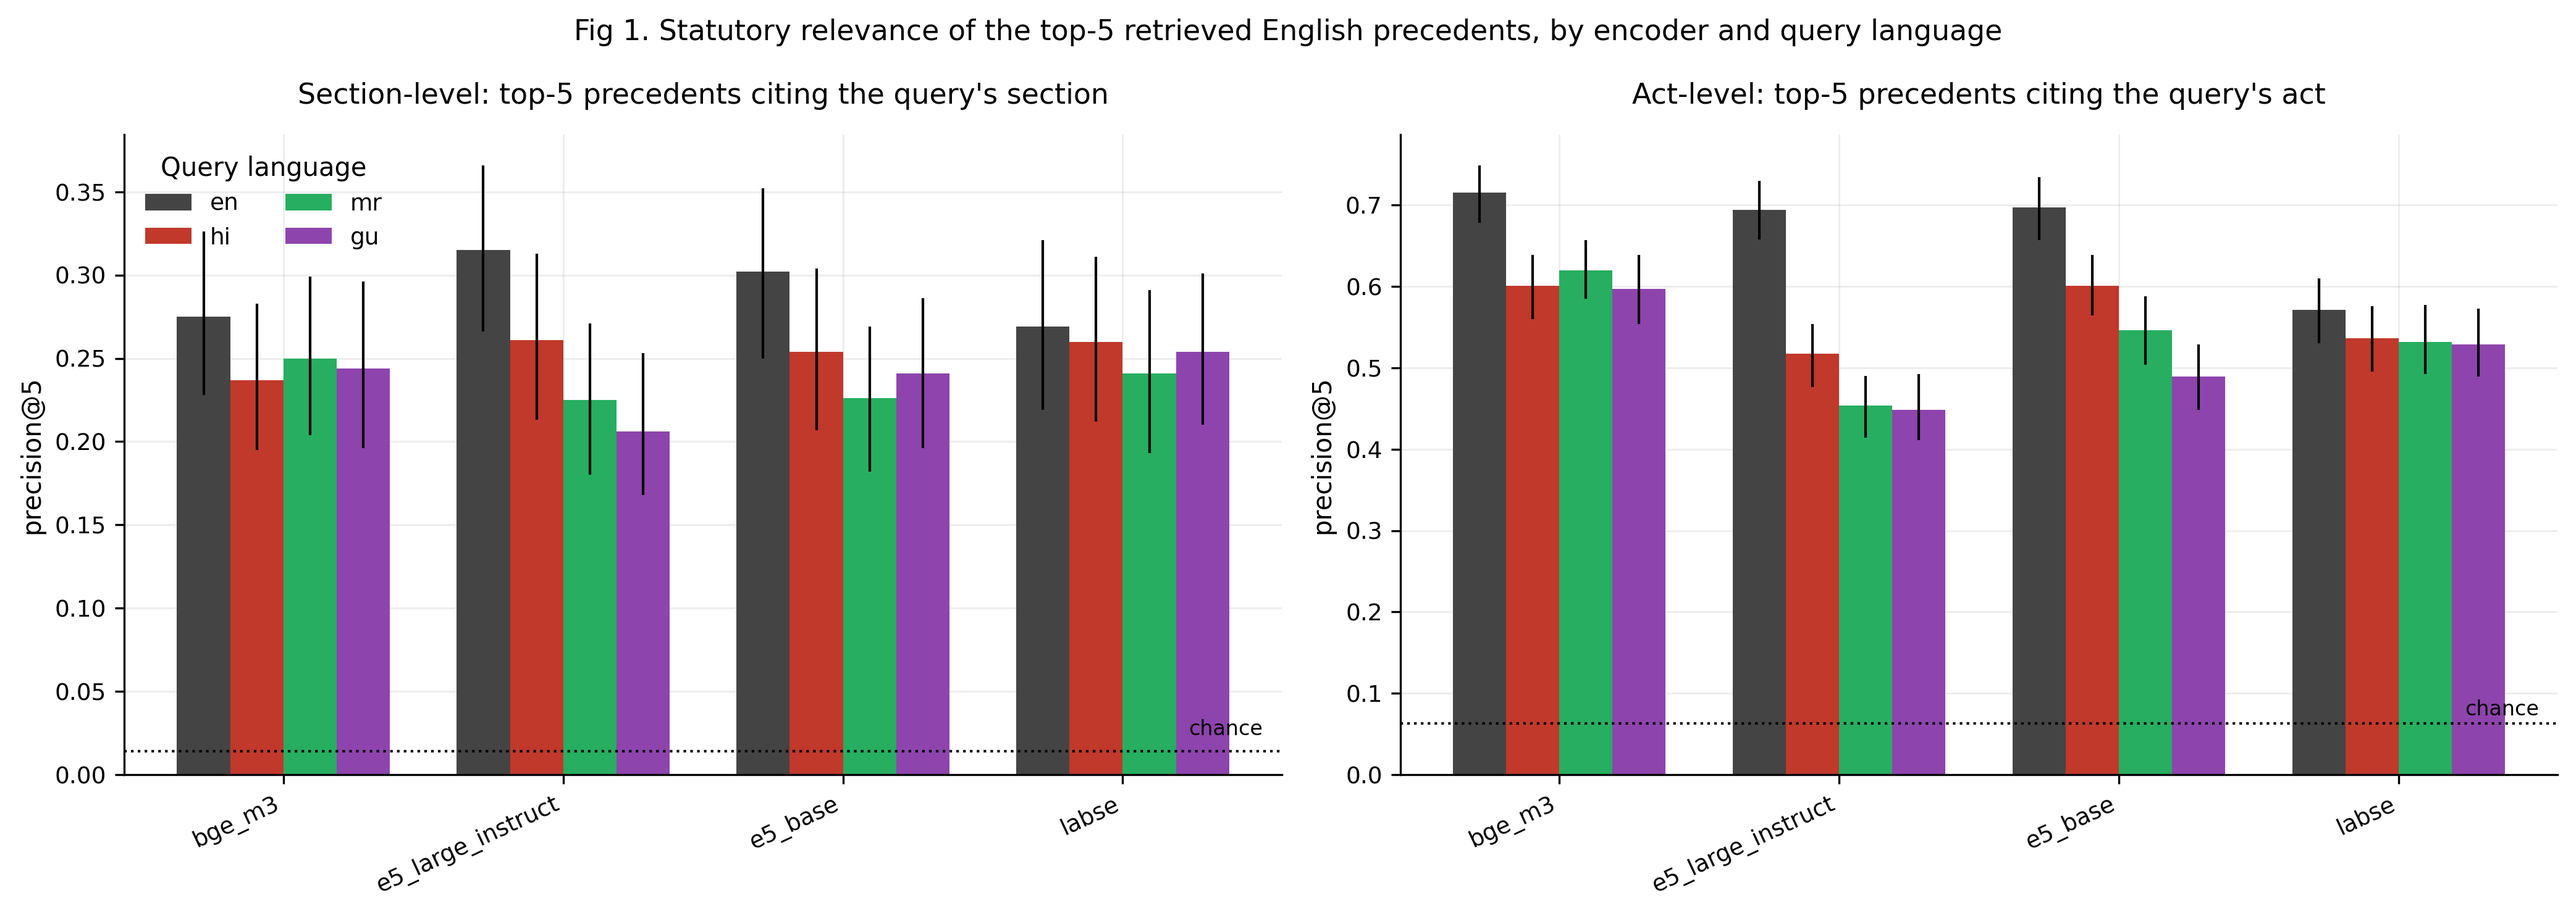
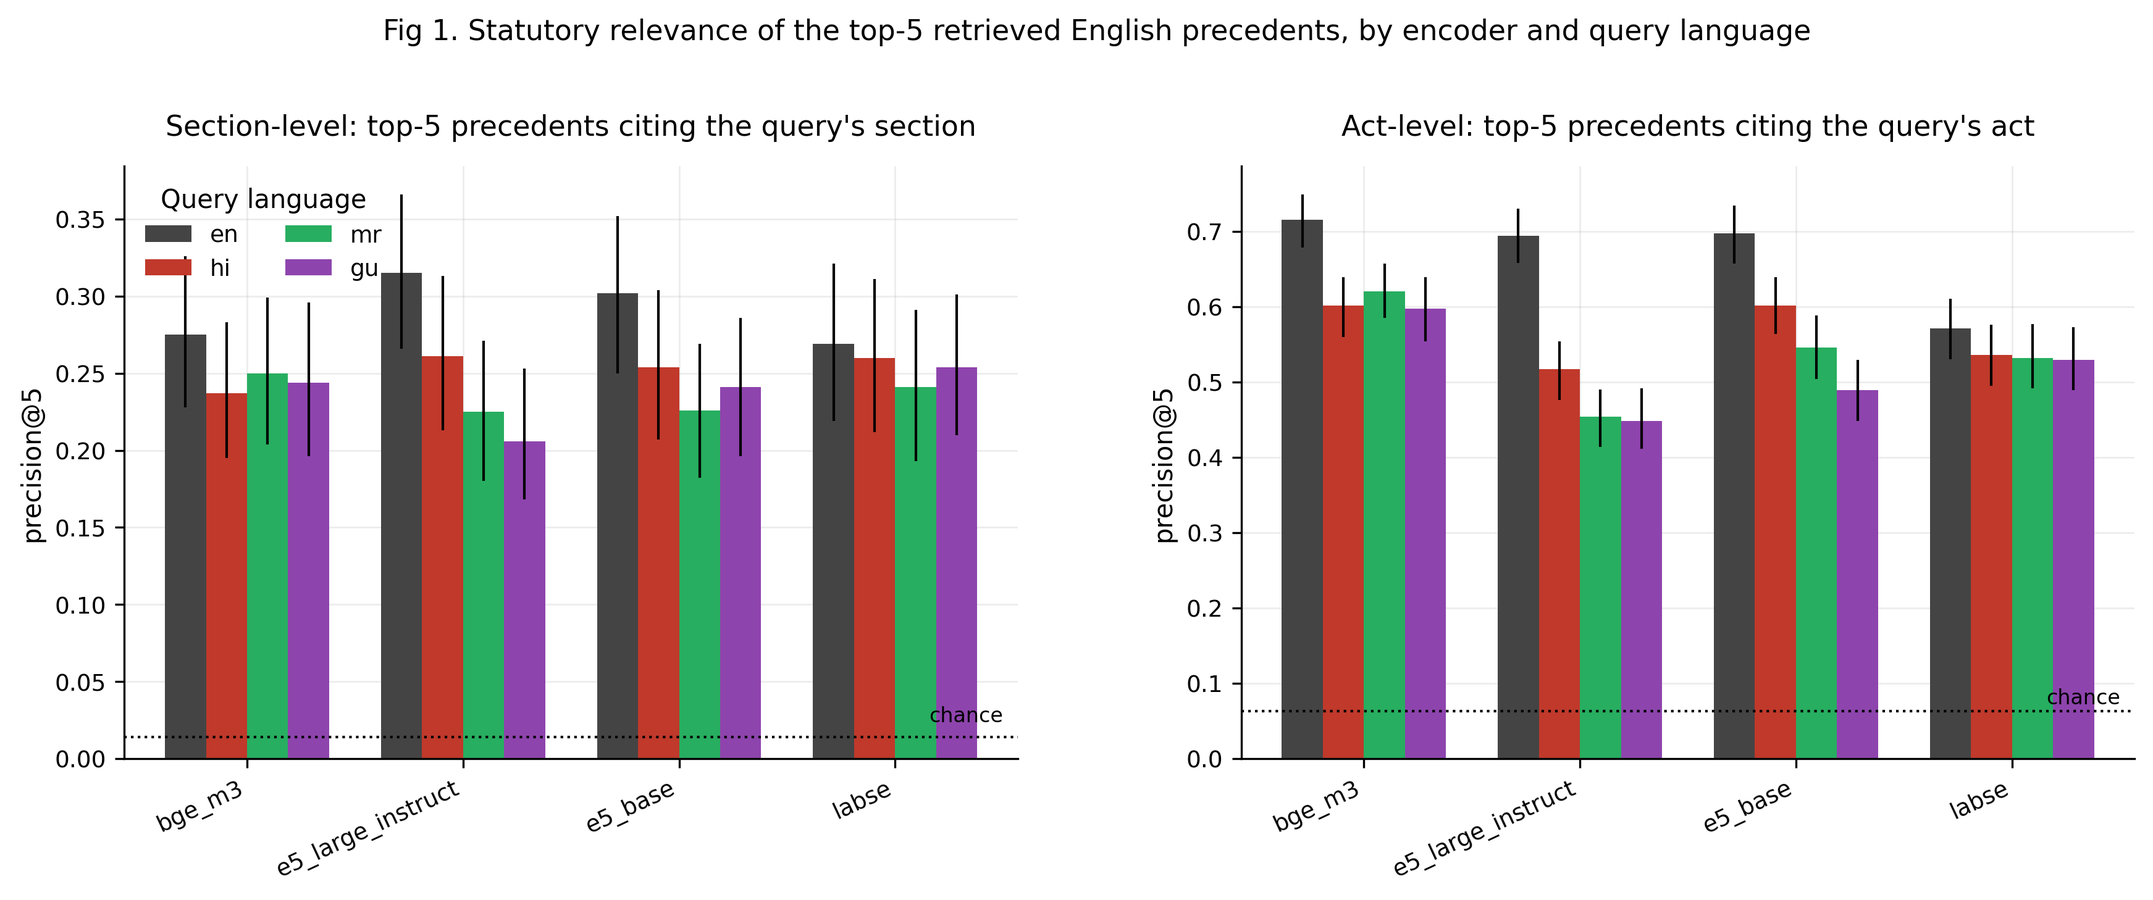
Stage 12: evaluation tables and figures

diff --git a/logs/2026-11-25.md b/logs/2026-11-25.md
@@ -36,3 +36,7 @@
 ## Stage 12 - evaluation and figures
 - results/stage12_{main,paired,consistency}.csv and results/figures/*.png (6 figures).
 - Main finding: no system is significantly above the majority baseline; retrieval mainly corrects the ALLOWED bias; anchors add nothing over cosine.
+
+## Stage 12 - evaluation and figures
+- results/stage12_{main,paired,consistency}.csv and results/figures/*.png (6 figures).
+- Main finding: no system is significantly above the majority baseline; retrieval mainly corrects the ALLOWED bias; anchors add nothing over cosine.
